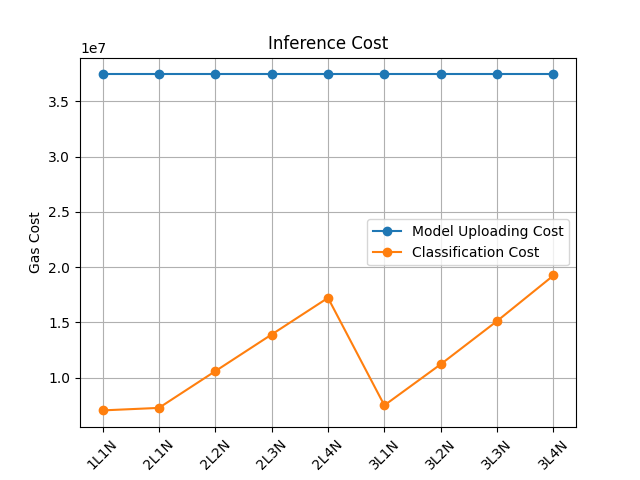
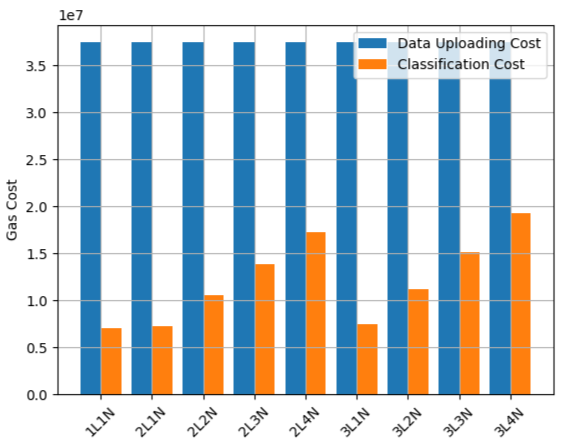
improved graphs

diff --git a/src/visualize.py b/src/visualize.py
@@ -1,6 +1,6 @@
 import pandas as pd
 import matplotlib.pyplot as plt
-
+import numpy as np
 
 # Function to read data from the Onchain_accuracy file and create a DataFrame
 def read_data(file_path):
@@ -32,14 +32,14 @@ def plot_deployment_cost_line(df):
     deployment_positions = [i - bar_width / 2 for i in range(len(df))]
     weight_biases_positions = [i + bar_width / 2 for i in range(len(df))]
     ax.bar(deployment_positions, df['deployment_gas'], bar_width, label='Model Deployment')
-    ax.bar(weight_biases_positions, df['weight_biases_gas'], bar_width, label='Upload Weights and Biases')
+    ax.bar(weight_biases_positions, df['weight_biases_gas'], bar_width, label='Upload Weights & Biases')
     ax.plot(deployment_positions, df['deployment_gas_estimate'], marker='o', linestyle='--',
             label='Estimated Model Deployment',color = 'red')
     ax.plot(weight_biases_positions, df['upload_gas_estimate'], marker='o', linestyle='--',
-            label='Estimated Upload Deployment', color = 'green')
+            label='Estimated Upload Weights & Biases', color = 'green')
     ax.set_xlabel('Model Names')
     ax.set_ylabel('Gas Cost')
-    ax.set_title('Deployment Cost')
+    #ax.set_title('Deployment Cost')
     ax.set_xticks(range(len(df)))
     ax.set_xticklabels(df['name'], rotation=45)
     ax.legend()
@@ -48,15 +48,37 @@ def plot_deployment_cost_line(df):
     plt.savefig("../results/Visualization/deployment_cost_line.png")
     plt.show()
 
-
+'''
 # Function to plot the Inference Cost graph
 def plot_inference_cost(df):
     plt.figure()
     plt.plot(df['name'], df['upload_test_gas'], marker='o', label='Model Uploading Cost')
     plt.plot(df['name'], df['classify_gas'], marker='o', label='Classification Cost')
     plt.ylabel('Gas Cost')
-    plt.title('Inference Cost')
+    #plt.title('Inference Cost')
     plt.xticks(rotation=45)
+    plt.legend()
+    plt.grid(True)
+    plt.savefig("../results/Visualization/inference_cost.png")
+    plt.show()
+    '''
+
+
+def plot_inference_cost(df):
+    # Calculate bar positions
+    n = len(df)
+    r = np.arange(n)  # The x locations for the groups
+    width = 0.4       # Width of the bars
+
+    plt.figure()
+
+    # Create the bars
+    plt.bar(r - width/2, df['upload_test_gas'], width, label='Data Uploading Cost')
+    plt.bar(r + width/2, df['classify_gas'], width, label='Classification Cost')
+
+    plt.ylabel('Gas Cost')
+    # plt.title('Inference Cost')
+    plt.xticks(r, df['name'], rotation=45)  # Set x-ticks to be the names
     plt.legend()
     plt.grid(True)
     plt.savefig("../results/Visualization/inference_cost.png")
